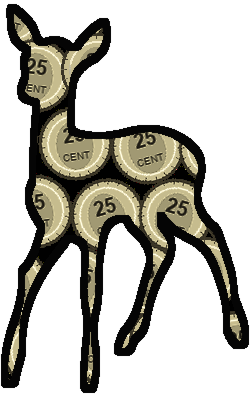
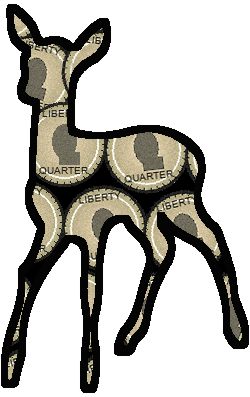
Add music-ready FAWN promo video

Changed region(s): [[0.056, 0.0302, 0.98, 0.8766], [0.028, 0.7859, 0.084, 0.9673], [0.336, 0.8463, 0.392, 0.9673]]

diff --git a/assets/fawn-motion-philosophy.md b/assets/fawn-motion-philosophy.md
@@ -1,0 +1,9 @@
+# Minted Momentum
+
+Minted Momentum treats money as living material: coins become hide, bills become muscle, and motion becomes proof of transformation. Space should feel deep and cinematic, with darkness used as a stage rather than a void. Forms enter with restraint, then accelerate with confidence, as if every frame were carefully placed by a master motion designer who labored over timing, contrast, and silhouette.
+
+The palette is disciplined: black, silver, banknote green, and FAWN green, with small flashes of warm gold. The work should feel meticulously crafted, not loud for its own sake. Texture carries the story. Text appears only as impact marks: short phrases, sparse labels, and brand signals that behave like visual percussion rather than explanation.
+
+Scale creates the drama. Small quarter-fawn imagery should feel delicate and almost collectible; the dollar-buck should arrive larger, sharper, and more mythic. The transformation must be readable through composition and rhythm, not through paragraphs. Every transition should have painstaking attention to balance so the piece feels like a polished artifact, not a screen recording.
+
+The motion language should be heroic but clean: quick pushes, snap cuts, slow parallax, and precise reveal beats. The design should pair naturally with arena-sized pop-punk energy while remaining original and self-contained. The final video must look like the product of deep expertise, with every frame able to stand as a poster.